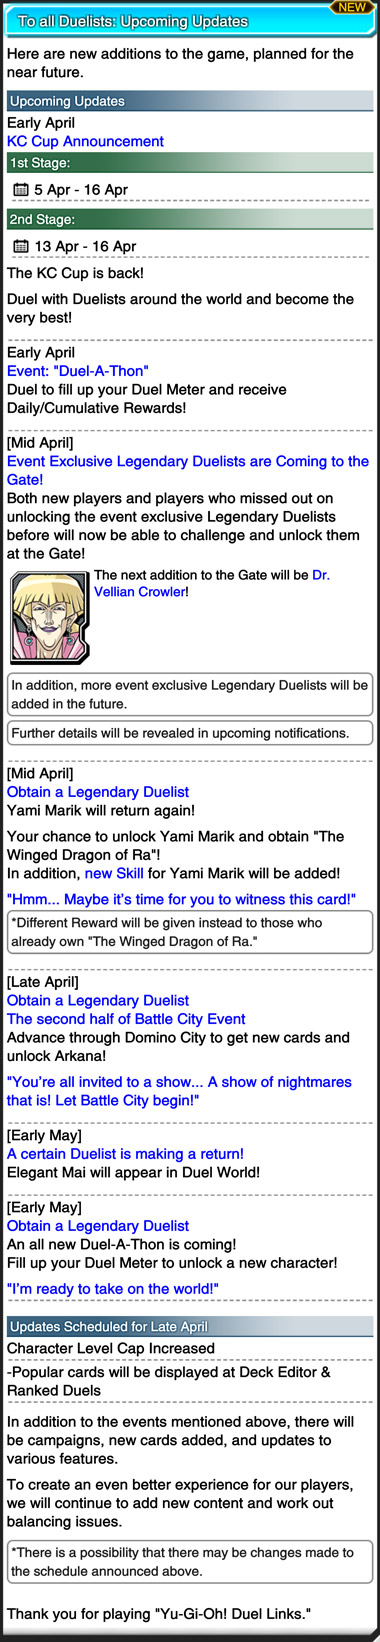
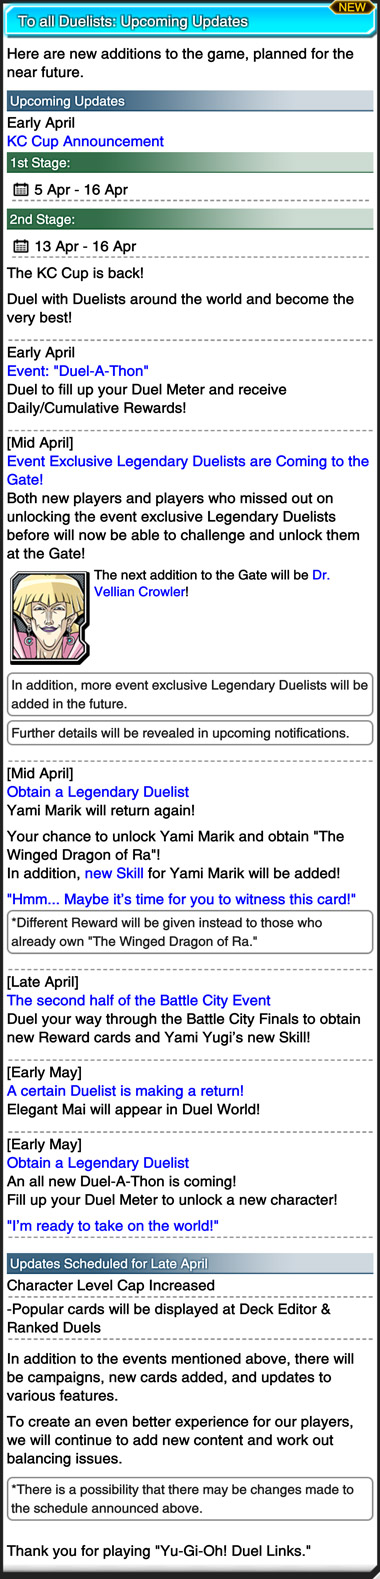
Updated article/report

diff --git a/_posts/content/news/2018/03/2018-03-19-in-game-updates-march.md b/_posts/content/news/2018/03/2018-03-19-in-game-updates-march.md
@@ -24,8 +24,8 @@ Here are some key points:
 - The KC Cup is starting next week
 - Another Duel-A-Thon
 - Dr. Vellian Crowler will be the newest addition to the gate, as discussed in our [Datamined Discoveries](/news/march-2018/datamined-discoveries/#new-gate-duelist) article!
-- Obtain Yami Marik
-- Obtain Arkana
+- Obtain Yami Marik: 'Different reward will be given instead to those who already own {The Winged Dragon of Ra}' - {Obelisk the Tormentor} perhaps!?
+- Battle City event - new skill for Yami Yugi!
 - Elegant Mai will return
 - And finally, character level cap increases - took your time Konami! 
 

diff --git a/_posts/content/tournaments/community/2018-03-26-dlo-5.md b/_posts/content/tournaments/community/2018-03-26-dlo-5.md
@@ -1,6 +1,6 @@
 ---
 layout: blog
-title: "DLO #5"
+title: "Duel Links Open #5"
 author: Yami Hammy
 category: tournament
 tournament: "DLO"
